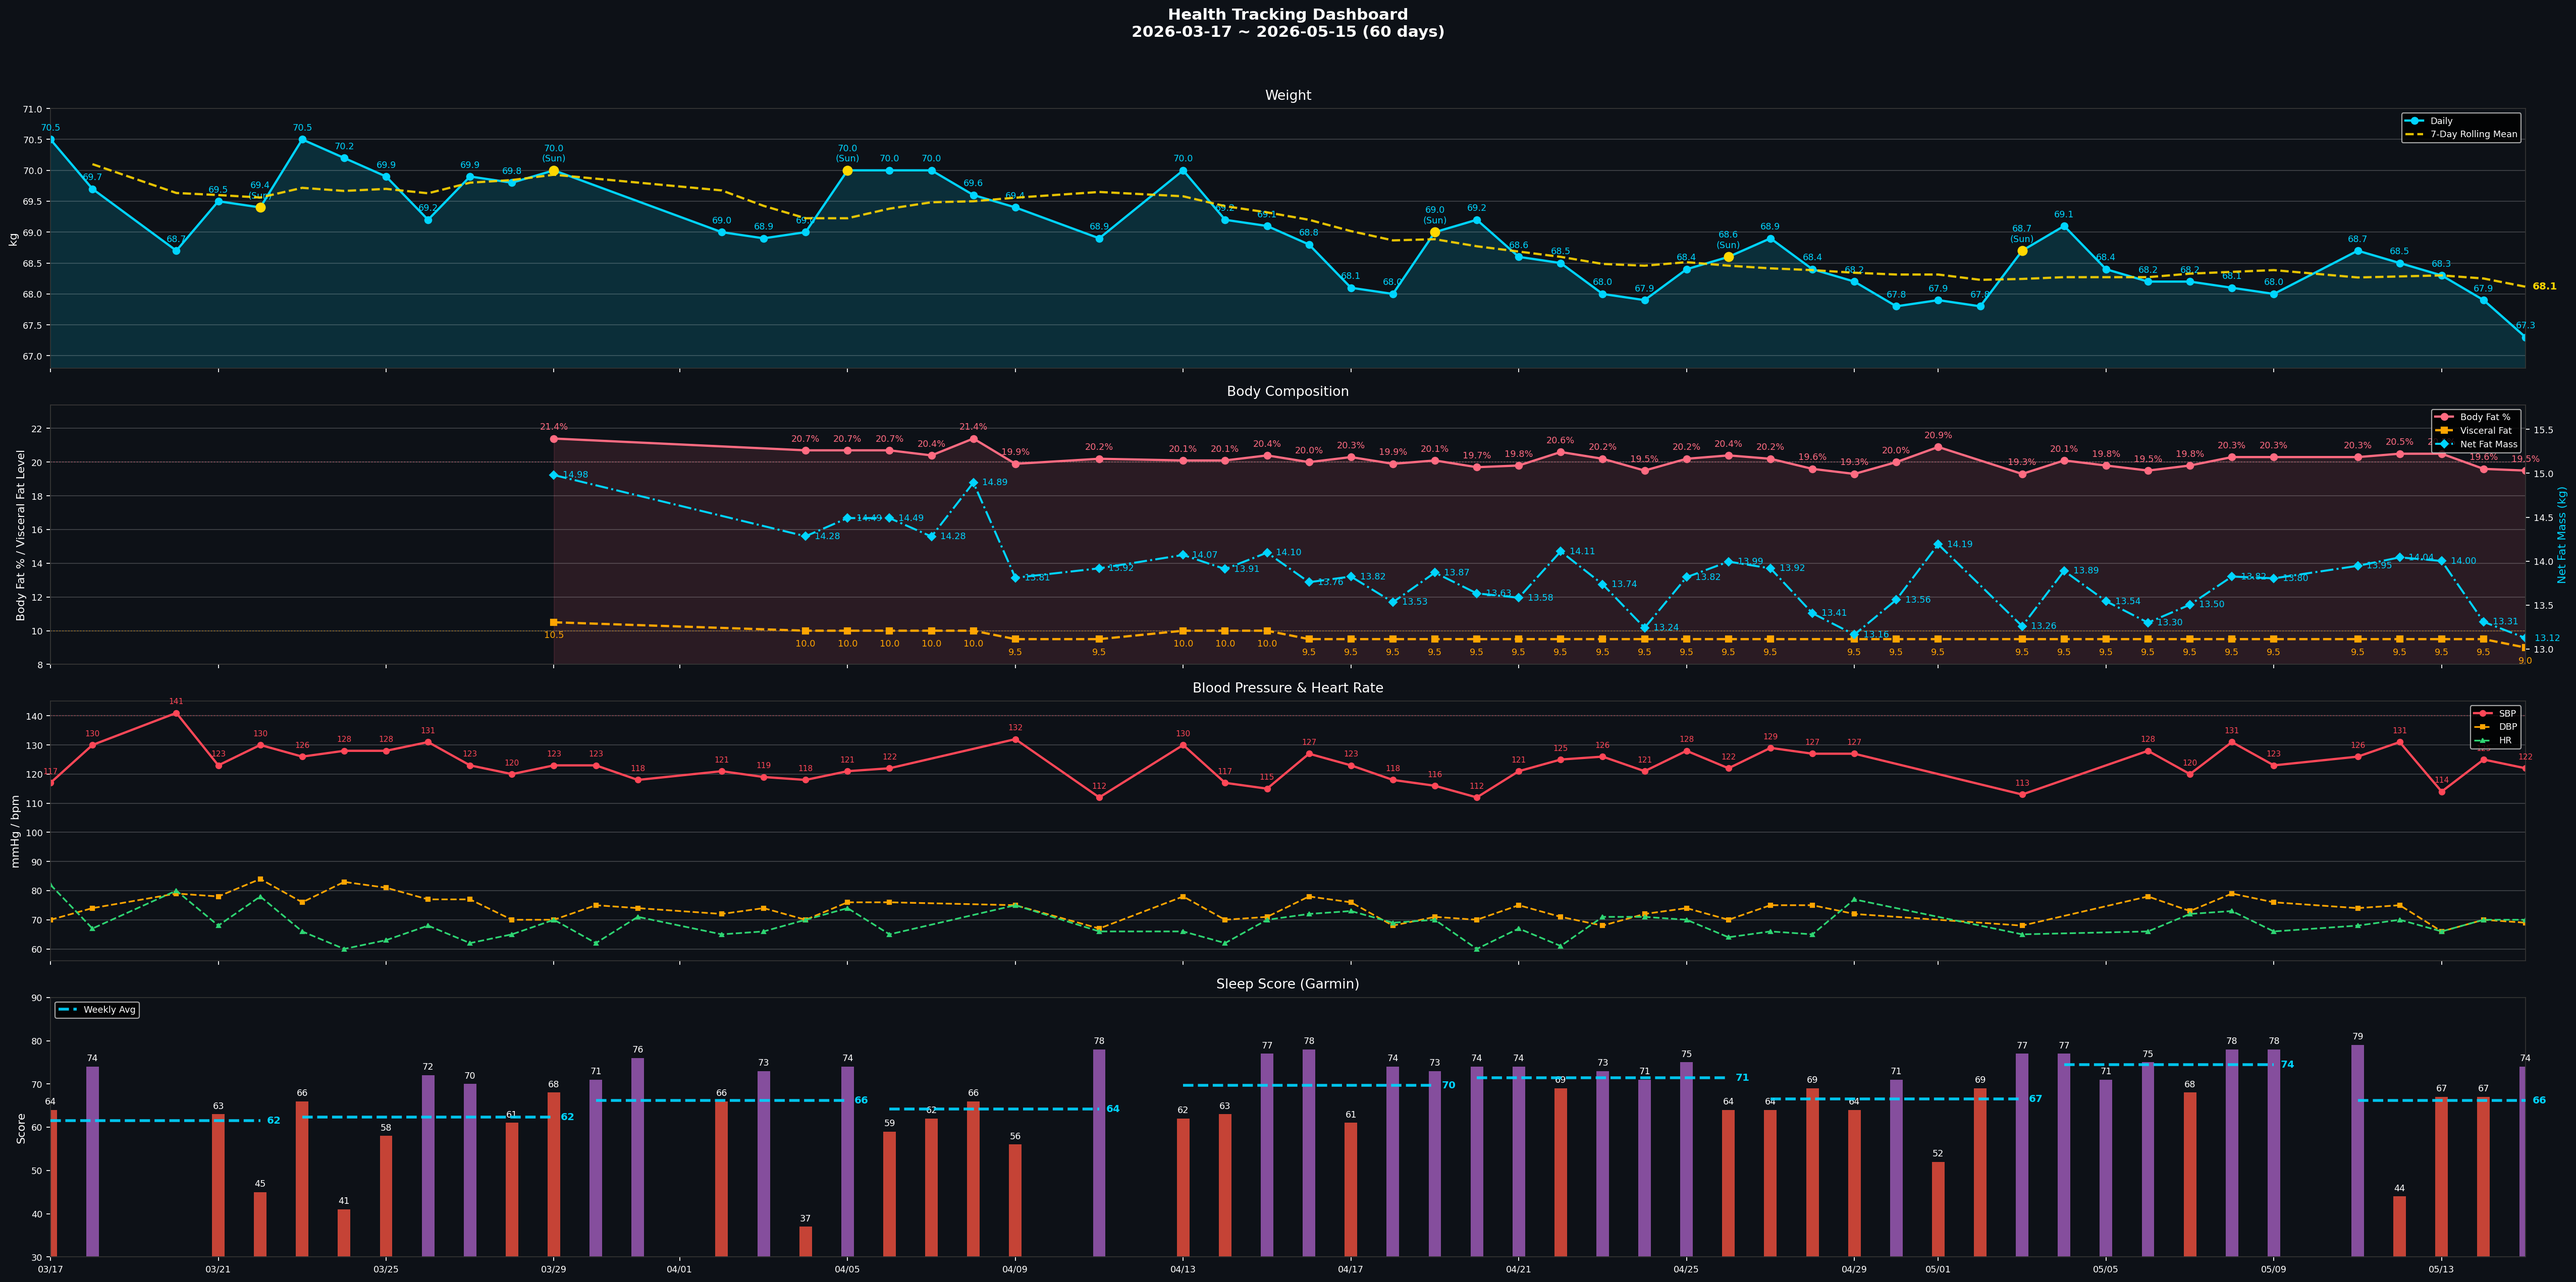
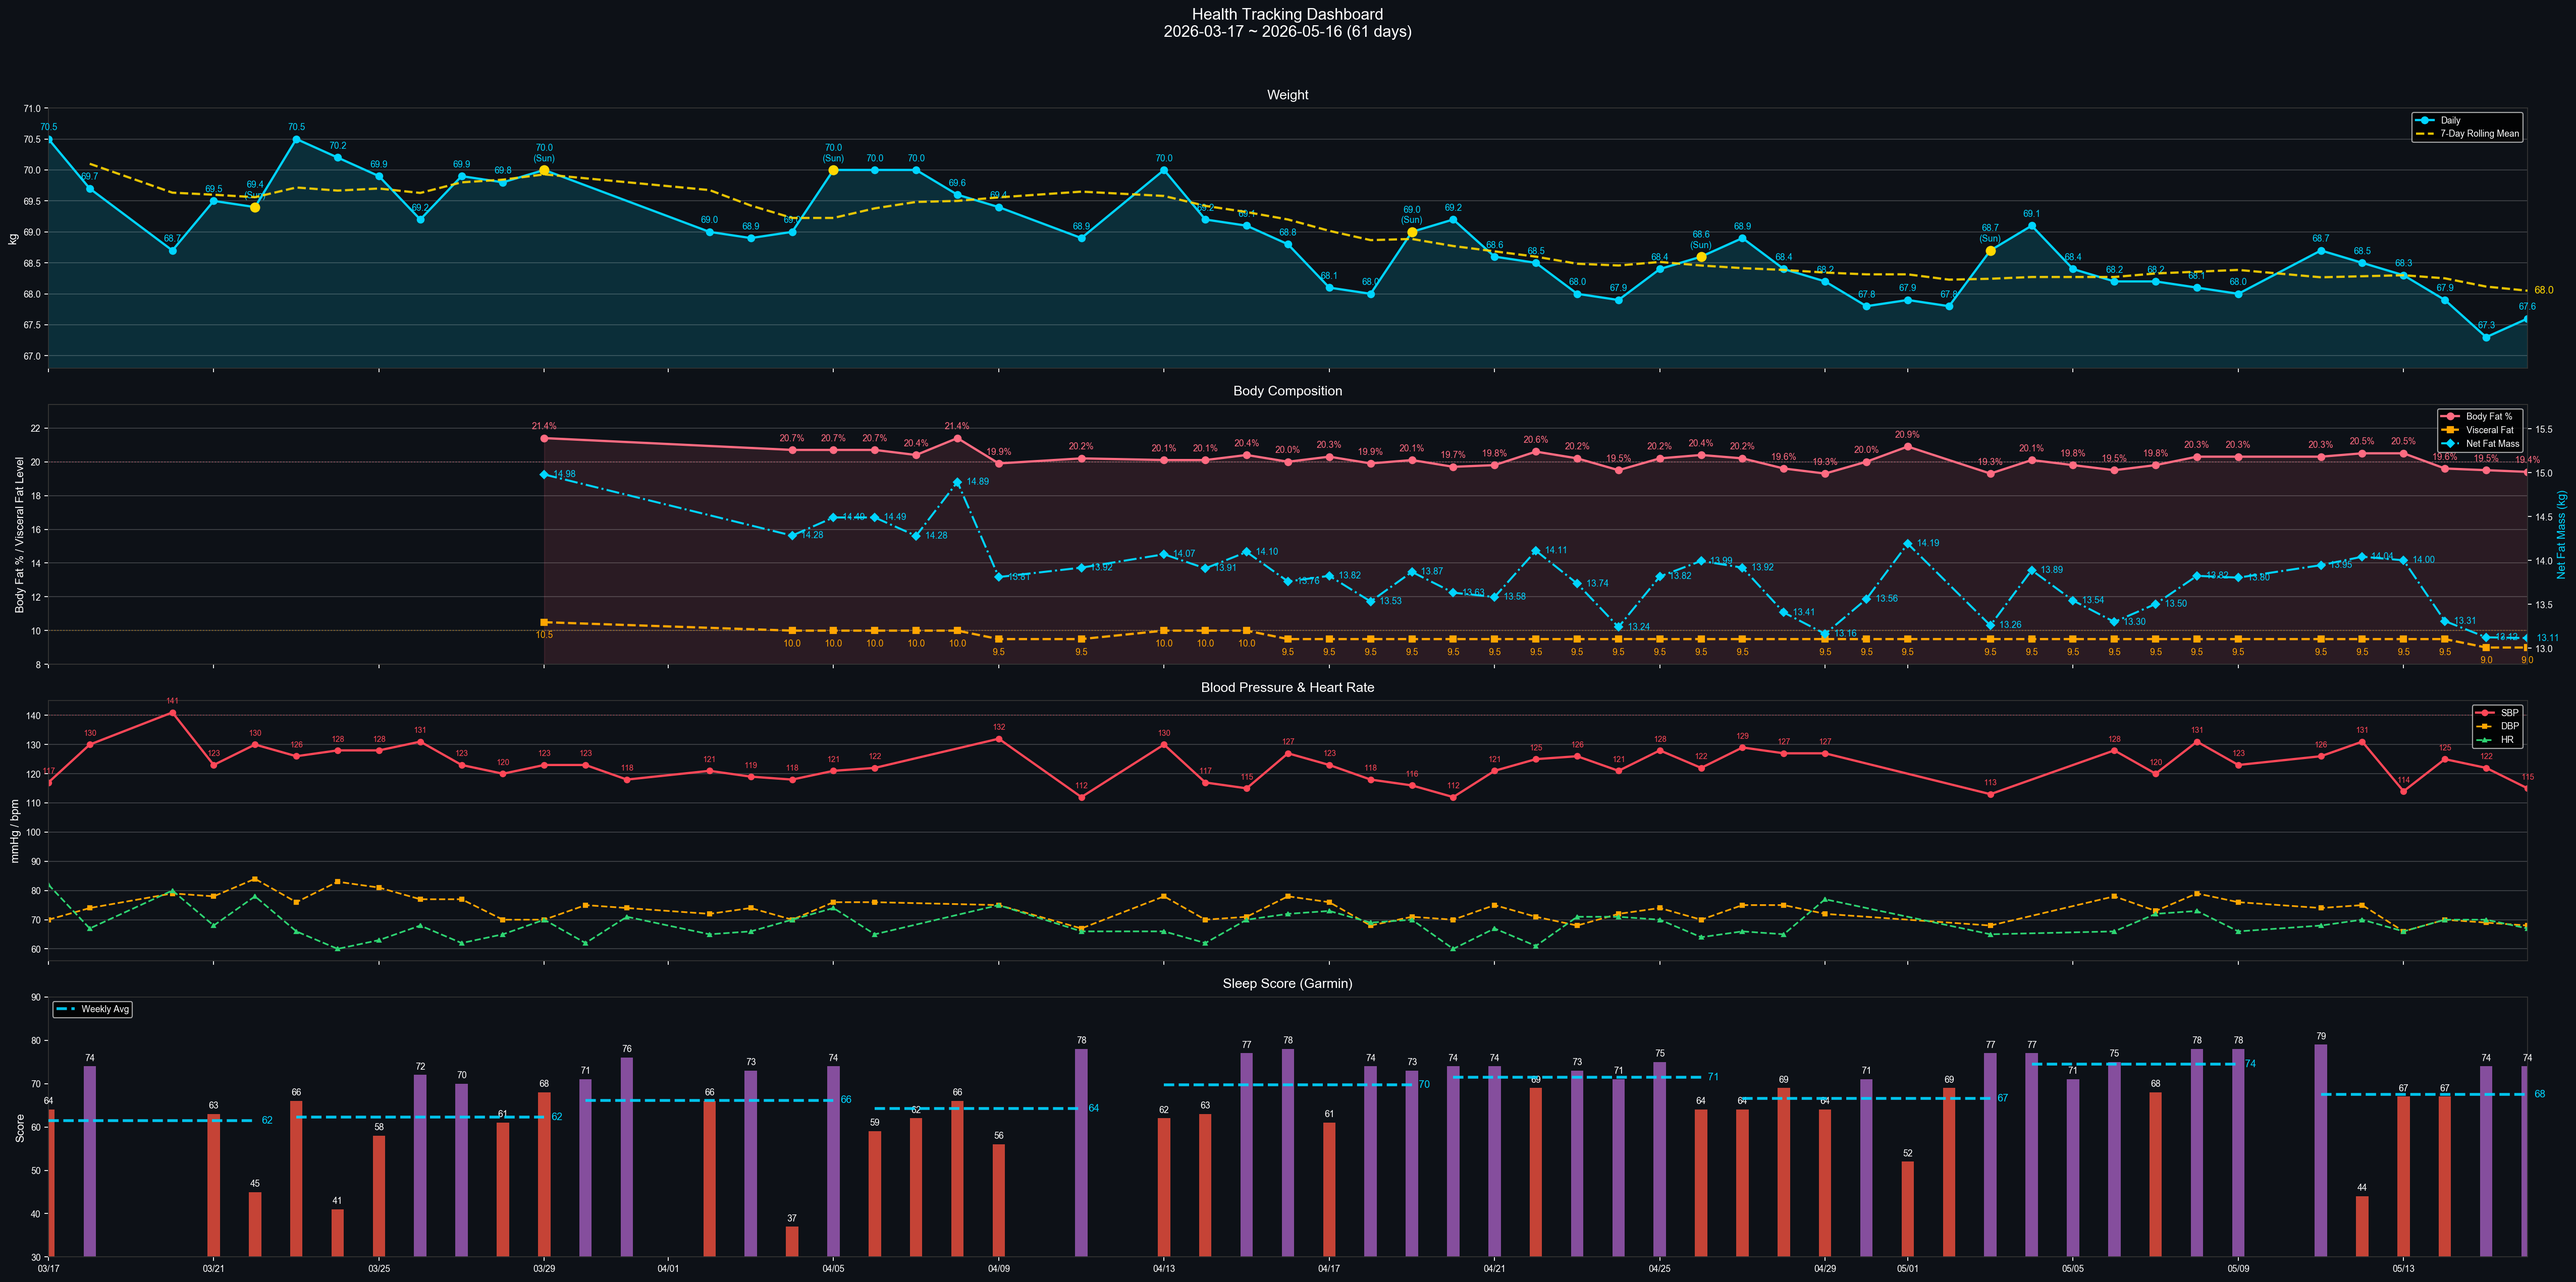
daily health log 2026-05-16

diff --git a/data.js b/data.js
@@ -9,12 +9,12 @@ window.HC_DATA = {
     lede:    { en: "Sleep, BP, lipids, uric acid — one shared metabolic root. Lifestyle stacks first; medication only after lifestyle plateaus.",
                zh: "睡眠、血壓、血脂、尿酸——共享同一個代謝根源。生活方式介入優先，等到效果平台期再考慮藥物。" },
     progressLbl: { en: "Weight progress · 70 → 65 kg", zh: "體重進度 · 70 → 65 公斤" },
-    progressMeta: { en: "Day 60 · 68.0 kg · Sat official (5/9)", zh: "第 60 天 · 68.0 公斤 · 週六正式（5/9）" },
-    startDate: { en: "Start date · Mar 17, 2026 · Last sync 5/15", zh: "起始日期 · 2026 年 3 月 17 日 · 最後同步 5/15" },
+    progressMeta: { en: "Day 61 · 67.6 kg · Sat official (5/16)", zh: "第 61 天 · 67.6 公斤 · 週六正式（5/16）" },
+    startDate: { en: "Start date · Mar 17, 2026 · Last sync 5/16", zh: "起始日期 · 2026 年 3 月 17 日 · 最後同步 5/16" },
     startWeight: 70,
     targetWeight: 65,
-    currentWeight: 68.0,
-    currentWeightDate: "5/9 Sat official",
+    currentWeight: 67.6,
+    currentWeightDate: "5/16 Sat official",
   },
 
   // ===== OSA red-flag banner =====
@@ -39,7 +39,7 @@ window.HC_DATA = {
     {
       sys: "heart", name: { en: "Blood Pressure", zh: "血壓" },
       val: "126/76", unit: "mmHg",
-      delta: { en: "W19 weekly avg (4 days) · target met (<130) · last 122/69 (5/15)", zh: "W19 週均（4 天）· 已達標 (<130) · 最新 122/69 (5/15)" },
+      delta: { en: "W19 weekly avg (4 days) · target met (<130) · last 115/68 (5/16)", zh: "W19 週均（4 天）· 已達標 (<130) · 最新 115/68 (5/16)" },
       cadence: { en: "Daily · weekly avg", zh: "每日 · 週均" },
       status: "ok",
     },
@@ -52,8 +52,8 @@ window.HC_DATA = {
     },
     {
       sys: "weight", name: { en: "Weight", zh: "體重" },
-      val: "68.0", unit: "kg",
-      delta: { en: "5/9 Sat official · auto-synced", zh: "5/9 週六正式 · 自動同步" },
+      val: "67.6", unit: "kg",
+      delta: { en: "5/16 Sat official · auto-synced", zh: "5/16 週六正式 · 自動同步" },
       cadence: { en: "Daily · Sat official", zh: "每日 · 週六正式" },
       status: "ok",
     },
@@ -850,14 +850,14 @@ window.HC_DATA = {
   tracker: {
     // [SBP, DBP] — gaps filled with prior reading
     bp: [
-      [113,68], [113,68], [113,68], [113,68], [113,68], [128,78], [120,73], [131,79], [123,76], [126,74], [131,75], [114,66], [125,70], [122,69],
+      [113,68], [113,68], [113,68], [113,68], [128,78], [120,73], [131,79], [123,76], [126,74], [131,75], [114,66], [125,70], [122,69], [115,68],
     ],
     // 4/21–5/4 daily weight (kg)
-    weight: [67.9, 67.8, 68.7, 69.1, 68.4, 68.2, 68.2, 68.1, 68, 68.7, 68.5, 68.3, 67.9, 67.3],
+    weight: [67.8, 68.7, 69.1, 68.4, 68.2, 68.2, 68.1, 68, 68.7, 68.5, 68.3, 67.9, 67.3, 67.6],
     // Garmin Sleep Score
-    sleep:  [52, 69, 77, 77, 71, 75, 68, 78, 78, 79, 44, 67, 67, 74],
+    sleep:  [69, 77, 77, 71, 75, 68, 78, 78, 79, 44, 67, 67, 74, 74],
     // Body Battery waking
-    bb:     [47, 41, 54, 49, 47, 56, 47, 37, 48, 55, 36, 42, 34, 51],
+    bb:     [41, 54, 49, 47, 56, 47, 37, 48, 55, 36, 42, 34, 51, 63],
     // SpO2 nightly nadir % (last 14 days, parallel to bp/weight/sleep/bb).
     // Earlier nights null until sync_data_js.py backfills; banner only uses trailing values.
     spo2Nadir: [null, null, null, null, null, 84, 79, 87, 85, 84, 84, 86, 82, 84],

diff --git a/reviews/daily/2026-05-16.md b/reviews/daily/2026-05-16.md
@@ -1,0 +1,102 @@
+# 晨間健康紀錄 — 2026-05-16
+
+*3 分鐘。起床後立即完成。記錄，不分析。*
+
+---
+
+## 體重
+
+**今日：67.6 kg**
+**體脂率：19.4 %**
+**內臟脂肪等級：9.0**
+
+*每週六早晨為正式紀錄（排尿後、進食前；連 5 個工作日後、週末大餐前的真實低點）。*
+
+---
+
+## 血壓（晨間）
+
+*起床後 1 小時內，上完廁所、進食前。坐下安靜 5 分鐘，連量兩次取第二次。*
+
+| 次數 | 收縮壓 | 舒張壓 | 心率 |
+|------|--------|--------|------|
+| 第一次 | — | — | — |
+| 第二次 | 115 | 68 | 67 |
+
+---
+
+## 睡眠狀態
+
+**實際就寢：** 22:16
+**實際起床：** 05:31
+**中途醒來：** [ 無 / 次數：__ / 原因：__ ]
+**Garmin Sleep Score：** 74 / 100
+**Garmin Body Battery 起床值：** 63
+**主觀恢復感：** [ ] / 5（1=極度疲憊, 5=精力充沛）
+**總時長：** 6h 39m（深眠 119 分 / REM 62 分）
+**RHR：** 57 bpm｜**壓力日均：** 19
+
+### SpO2 夜間最低（7 晚趨勢）
+
+| 日期 | -6 | -5 | -4 | -3 | -2 | -1 | 今晨 |
+|------|----|----|----|----|----|----|------|
+| 日期 | 05-10 | 05-11 | 05-12 | 05-13 | 05-14 | 05-15 | 05-16 |
+| 最低 % | — | — | — | — | — | 83 ⚠ | **84 ⚠** |
+
+**今晨日均 SpO2：** 94.0%
+**< 88% 連續晚數：** 2（05-15、05-16，需追蹤）
+
+### SpO2 Desat Events（2026-05-16，T90 ≈ 14.7% 🔴）
+
+| 時段 | 長度 | 最低 | 平均 | 分級 |
+|------|------|------|------|------|
+| 00:55–00:55 | 1 分 | 89% | 89% | 🟢 邊緣 |
+| 00:58–01:11 | 14 分 | 87% | 88% | 🟡 紅旗 |
+| 01:17–01:18 | 2 分 | 89% | 89% | 🟢 邊緣 |
+| 01:21–01:23 | 3 分 | 84% | 84% | 🟠 中度 |
+| 01:36–01:48 | 13 分 | 84% | 87% | 🟠 中度 |
+| 01:52–01:54 | 3 分 | 87% | 88% | 🟡 紅旗 |
+| 01:56–02:07 | 12 分 | 89% | 89% | 🟢 邊緣 |
+| 02:39–02:39 | 1 分 | 88% | 88% | 🟢 邊緣 |
+| 03:17–03:19 | 3 分 | 88% | 89% | 🟢 邊緣 |
+| 03:21–03:31 | 11 分 | 87% | 88% | 🟡 紅旗 |
+
+睡眠分鐘數 ~429｜SpO2 < 90% 累計 **63 分**｜T90 ≈ **14.7% 🔴 超過 10% 門檻**
+
+**SpO2 全夜圖：** reviews/daily/spo2/spo2_desat_2026-05-16.png
+
+*Sleep Score < 65 或 Body Battery < 50 連續三天 → 重新檢視睡眠修復方案。*
+
+---
+
+## 昨日回顧（2026-05-15）
+
+**實際飲水量：** 0.00 L（Garmin 未紀錄；目標 ≥ 2.5L）
+**步數：** 11,635 步｜**運動流汗耗水：** 0.38 L
+
+---
+
+## 身體信號
+
+*任何張力、疼痛、疲勞、異常 — 或「清」。記位置、性質、強度。*
+
+| 部位 | 性質 | 強度 (0-10) |
+|------|------|-------------|
+| | | |
+
+---
+
+## 今日計畫速記
+
+- [ ] 飲水目標：2.5 L（建議 2.5–3.0L，17:00 前完成主要量）
+- [ ] 補充品：洛神花茶 ×2 杯 + 魚油 ×2 + Vit D3K2 3000 IU + 酸櫻桃 500 mg + 鎂 400 mg + L-Citrulline 2 g + Psyllium husk 5 g ×2（鎂睡前 1-2 hr；D3K2 / Citrulline 晨間隨脂肪餐；Psyllium 午/晚餐前 30 min）
+- [ ] 運動：____________________
+- [ ] 活動度/伸展：____________________
+
+---
+
+💡 **PT 建議：** Sleep Score 74、Body Battery 63 屬中等恢復，但 T90 ≈ 14.7%（超過 10% 紅旗門檻）且最低 84% 已連兩晚 < 88%，OSA 風險訊號升級——建議今晚側睡 + 抬高床頭 15°，並儘速推進 PSG 安排。血壓 115/68 良好；昨日飲水 0L 偏低，今日請補滿 2.5–3.0L，17:00 前完成 60-70%。
+
+---
+
+*Filed: reviews/daily/2026-05-16.md*

diff --git a/reviews/weekly/2026-W20.md b/reviews/weekly/2026-W20.md
@@ -10,9 +10,9 @@
 
 | 指標 | 當月目標 | 本週實際 | 差距 |
 |------|----------|----------|------|
-| 體重（週六早晨讀數） | _____ kg（第__月目標） | _____ kg | _____ kg |
-| 體脂率 | _____%（目標 ≤ _____%） | _____% | ____% |
-| 內臟脂肪 | _____ （目標 ≤ _____） | _____ | _____ |
+| 體重（週六早晨讀數） | _____ kg（第__月目標） | 67.6 kg | _____ kg |
+| 體脂率 | _____%（目標 ≤ _____%） | 19.4% | ____% |
+| 內臟脂肪 | _____ （目標 ≤ _____） | 9.0 | _____ |
 | 收縮壓（週均） | < 130 mmHg（終極 < 125） | _____ mmHg | |
 | Sleep Score（週均） | ≥ 70（進階 ≥ 80） | _____ | |
 | Body Battery 起床值（週均） | ≥ 65（進階 ≥ 75） | _____ | |
@@ -31,11 +31,11 @@
 
 |  | 一 | 二 | 三 | 四 | 五 | 六 | 日 |
 |--|----|----|----|----|----|----|-----|
-| 體重 (kg) | 68.7 | 68.5 | 68.3 | 67.9 | 67.3 | | |
-| 體脂率 (%) | 20.3 | 20.5 | 20.5 | 19.6 | 19.5 | | |
-| 內臟脂肪 | 9.5 | 9.5 | 9.5 | 9.5 | 9.0 | | |
+| 體重 (kg) | 68.7 | 68.5 | 68.3 | 67.9 | 67.3 | 67.6 | |
+| 體脂率 (%) | 20.3 | 20.5 | 20.5 | 19.6 | 19.5 | 19.4 | |
+| 內臟脂肪 | 9.5 | 9.5 | 9.5 | 9.5 | 9.0 | 9.0 | |
 
-**本週正式讀數（週六早晨）：** _____ kg｜體脂率：_____%｜內臟脂肪：_____
+**本週正式讀數（週六早晨）：** 67.6 kg｜體脂率：19.4%｜內臟脂肪：9.0
 **上週正式讀數（週六早晨）：** _____ kg｜體脂率：_____%｜內臟脂肪：_____
 **體重變化：** _____ kg｜體脂率變化：_____%｜內臟脂肪變化：_____
 
@@ -50,7 +50,7 @@
 | 05-13 (三) | 114 | 66 | 66 |
 | 05-14 (四) | 125 | 70 | 70 |
 | 05-15 (五) | 122 | 69 | 70 |
-| 05-16 (六) | | | |
+| 05-16 (六) | 115 | 68 | 67 |
 | 05-17 (日) | | | |
 
 **本週平均：** _____ / _____ mmHg，心率 _____ bpm
@@ -68,7 +68,7 @@
 | 05-13 (三) | 22:21 | 03:42 | 0 | 67 | 42 | 2 |
 | 05-14 (四) | 21:44 | 05:45 | 2+ | 67 | 34 | 3 |
 | 05-15 (五) | 22:13 | 05:51 | 2 | 74 | 51 | 2 |
-| 05-16 (六) | | | | | | |
+| 05-16 (六) | 22:16 | 05:31 | | 74 | 63 | |
 | 05-17 (日) | | | | | | |
 
 **Sleep Score 週均：** _____ / 100
@@ -165,6 +165,7 @@
 | SpO2 連 7/7 晚 < 88%（05-12 T90=20.4%、50 min desat） | 預約 PSG 多項睡眠檢查（本週內） | 待 |
 | Sleep Score 44 + BB 36 + REM 0（05-12，TST 4h 4m） | 今日 21:30 嚴格上床；咖啡因 ≤ 12:00；補 20-30 min nap | 待 |
 | 連 2 天飲水 < 2.0L（05-10 0L、05-11 0.9L） | 今日 06:30 起每 90 min 飲 300 mL；早午前完成 1.5L | 待 |
+| OSA T90 = 14.7%（05-16） | 側睡 + 抬頭 15°、推進 PSG 安排 | 待 |
 
 ---
 
